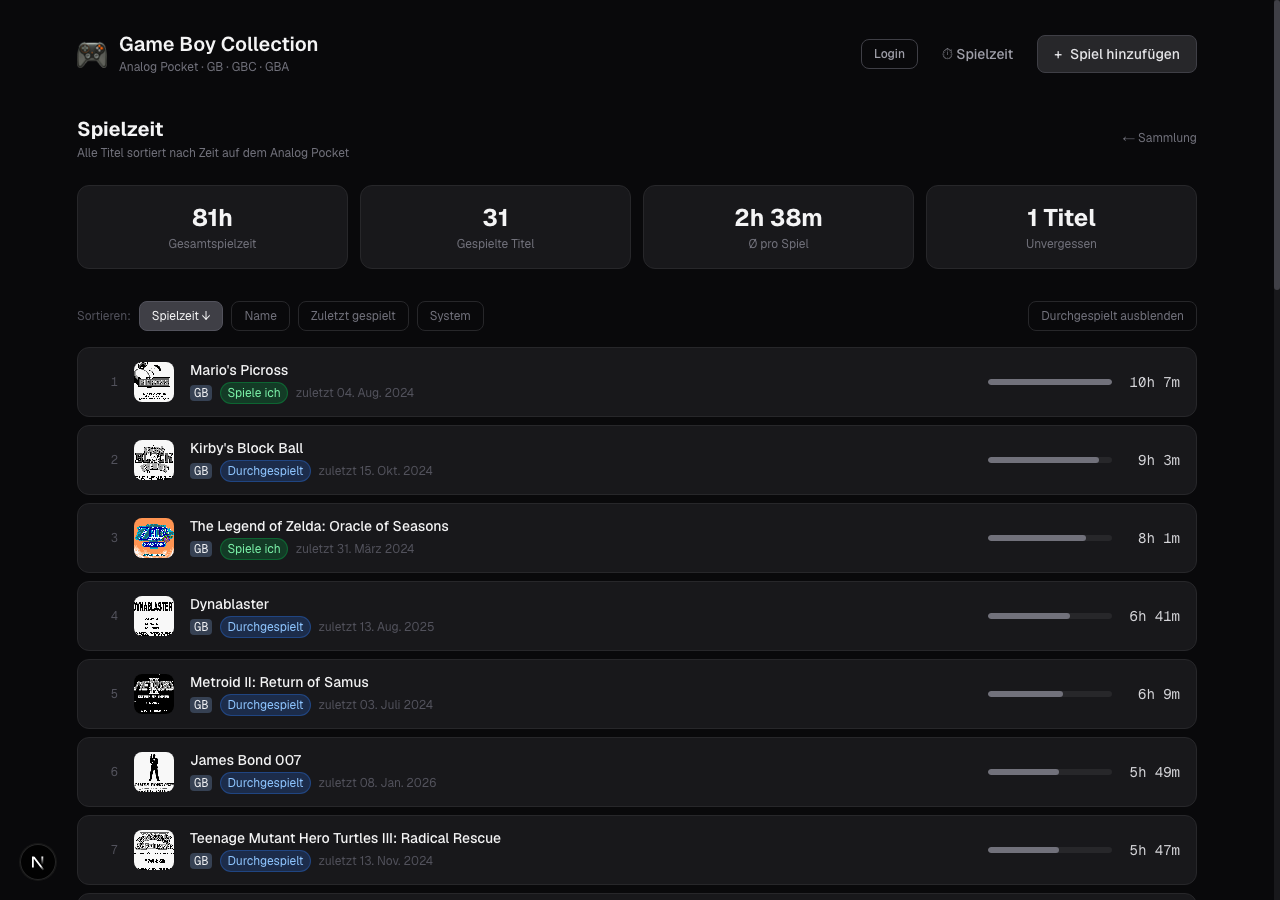
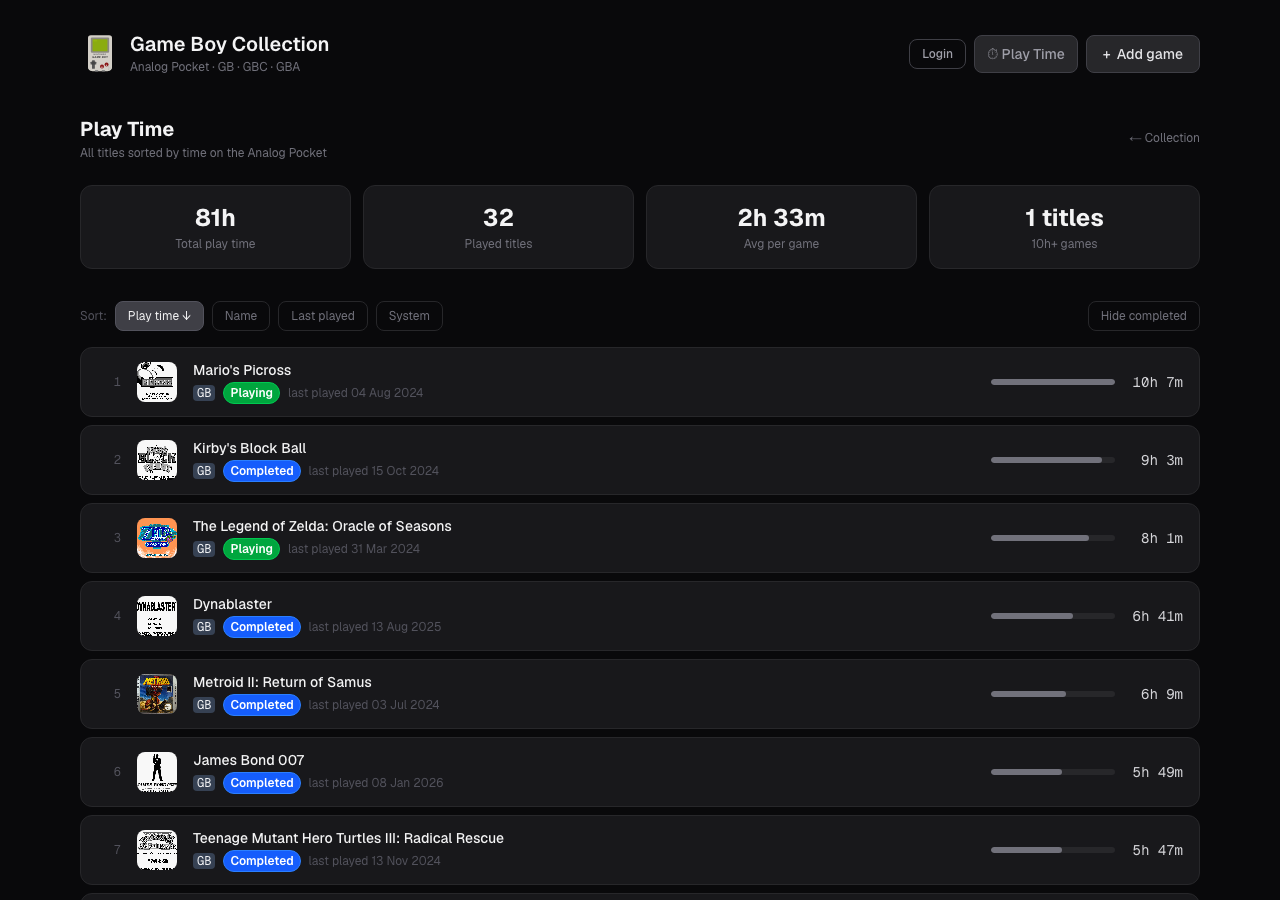
fix: several UI and filter improvements
- Fix "Owned" filter to include Playing and Completed games (all physically owned statuses)
- Fix Pocket Sync upload using hardcoded path instead of POCKET_PLAYED_DIR/POCKET_LIBRARY_DIR env vars
- Fix iOS auto-zoom on input focus (viewport maximum-scale=1)
- Unify header button heights — Login/Logout now matches Play Time, Pocket Sync and Add game
- Deduplicate Play Time / Pocket Sync button styles via shared constant
- Add clear (×) button to search field
- Translate remaining German strings in Pocket Sync UI to English
- Show build SHA and timestamp in footer when built via CI
- Update README screenshots and feature list

diff --git a/app/pocket-sync/page.tsx b/app/pocket-sync/page.tsx
@@ -33,7 +33,7 @@ export default function PocketSyncPage() {
       setOutput(data.output ?? "");
     } else {
       setStatus("error");
-      setError(data.error ?? "Unbekannter Fehler");
+      setError(data.error ?? "Unknown error");
       setOutput(data.output ?? "");
     }
   }
@@ -48,13 +48,13 @@ export default function PocketSyncPage() {
 
       <h2 className="text-xl font-bold text-zinc-100 mb-1">Pocket Sync</h2>
       <p className="text-xs text-zinc-500 mb-6">
-        Lädt Spielzeiten und Spiele von der Analogue Pocket SD-Karte.
+        Import play times and games from your Analogue Pocket SD card.
       </p>
 
       {/* Hint box */}
       <div className="bg-zinc-900 border border-zinc-700 rounded-xl p-4 mb-6 text-sm text-zinc-400">
-        <p className="font-medium text-zinc-300 mb-2">Wo finde ich die Dateien?</p>
-        <p className="mb-1">Auf der SD-Karte der Analogue Pocket unter:</p>
+        <p className="font-medium text-zinc-300 mb-2">Where to find the files?</p>
+        <p className="mb-1">On your Analogue Pocket SD card under:</p>
         <code className="block bg-zinc-800 rounded-lg px-3 py-2 text-xs text-zinc-300 font-mono mt-2">
           System/Played Games/list.bin<br />
           System/Played Games/playtimes.bin
@@ -85,8 +85,8 @@ export default function PocketSyncPage() {
             </>
           ) : (
             <>
-              <p className="text-zinc-400 text-sm">list.bin auswählen</p>
-              <p className="text-xs text-zinc-600 mt-1">Klicken zum Durchsuchen</p>
+              <p className="text-zinc-400 text-sm">Select list.bin</p>
+              <p className="text-xs text-zinc-600 mt-1">Click to browse</p>
             </>
           )}
         </div>
@@ -114,8 +114,8 @@ export default function PocketSyncPage() {
             </>
           ) : (
             <>
-              <p className="text-zinc-400 text-sm">playtimes.bin auswählen</p>
-              <p className="text-xs text-zinc-600 mt-1">Klicken zum Durchsuchen</p>
+              <p className="text-zinc-400 text-sm">Select playtimes.bin</p>
+              <p className="text-xs text-zinc-600 mt-1">Click to browse</p>
             </>
           )}
         </div>
@@ -125,14 +125,14 @@ export default function PocketSyncPage() {
           disabled={!ready || status === "uploading"}
           className="w-full py-2.5 bg-zinc-700 hover:bg-zinc-600 disabled:opacity-40 disabled:cursor-not-allowed text-sm font-medium text-zinc-100 rounded-lg transition-colors"
         >
-          {status === "uploading" ? "Wird importiert…" : "Importieren"}
+          {status === "uploading" ? "Importing…" : "Import"}
         </button>
       </form>
 
       {/* Result */}
       {status === "done" && (
         <div className="mt-6 bg-green-950/30 border border-green-800 rounded-xl p-4">
-          <p className="text-green-400 text-sm font-medium mb-3">Import abgeschlossen</p>
+          <p className="text-green-400 text-sm font-medium mb-3">Import complete</p>
           {output && (
             <pre className="text-xs text-zinc-400 whitespace-pre-wrap font-mono overflow-x-auto">
               {output}
@@ -142,14 +142,14 @@ export default function PocketSyncPage() {
             onClick={() => router.push("/")}
             className="mt-4 px-4 py-2 bg-zinc-700 hover:bg-zinc-600 text-sm text-zinc-100 rounded-lg transition-colors"
           >
-            Zur Übersicht
+            Back to collection
           </button>
         </div>
       )}
 
       {status === "error" && (
         <div className="mt-6 bg-red-950/30 border border-red-800 rounded-xl p-4">
-          <p className="text-red-400 text-sm font-medium mb-1">Fehler beim Import</p>
+          <p className="text-red-400 text-sm font-medium mb-1">Import failed</p>
           <p className="text-xs text-zinc-400 mb-3">{error}</p>
           {output && (
             <pre className="text-xs text-zinc-500 whitespace-pre-wrap font-mono overflow-x-auto">

diff --git a/app/layout.tsx b/app/layout.tsx
@@ -11,6 +11,11 @@ const geistMono = Geist_Mono({ variable: "--font-geist-mono", subsets: ["latin"]
 export const metadata: Metadata = {
   title: "Game Boy Collection",
   description: "My Game Boy cartridge collection",
+  viewport: {
+    width: "device-width",
+    initialScale: 1,
+    maximumScale: 1,
+  },
 };
 
 export default function RootLayout({ children }: { children: React.ReactNode }) {
@@ -41,6 +46,15 @@ export default function RootLayout({ children }: { children: React.ReactNode }) 
             </div>
           </header>
           <main>{children}</main>
+          {(process.env.NEXT_PUBLIC_BUILD_SHA || process.env.NEXT_PUBLIC_BUILD_TIME) && (
+            <footer className="mt-12 pb-4 text-center">
+              <span className="text-[11px] text-zinc-800 font-mono">
+                {process.env.NEXT_PUBLIC_BUILD_SHA && <>#{process.env.NEXT_PUBLIC_BUILD_SHA}</>}
+                {process.env.NEXT_PUBLIC_BUILD_SHA && process.env.NEXT_PUBLIC_BUILD_TIME && <> · </>}
+                {process.env.NEXT_PUBLIC_BUILD_TIME && <>{process.env.NEXT_PUBLIC_BUILD_TIME.replace("T", " ").replace("Z", " UTC")}</>}
+              </span>
+            </footer>
+          )}
         </div>
       </body>
     </html>

diff --git a/app/components/HeaderNav.tsx b/app/components/HeaderNav.tsx
@@ -2,6 +2,8 @@
 
 import { useState, useEffect } from "react";
 
+const btnCls = "px-2.5 sm:px-4 py-2 rounded-lg text-sm font-medium text-zinc-400 hover:text-zinc-200 transition-colors border border-zinc-700 bg-zinc-800 hover:bg-zinc-700";
+
 export default function HeaderNav() {
   const [authenticated, setAuthenticated] = useState(false);
 
@@ -11,19 +13,12 @@ export default function HeaderNav() {
 
   return (
     <>
-      <a
-        href="/playtime"
-        className="px-3 py-2 rounded-lg text-sm font-medium text-zinc-400 hover:text-zinc-200 transition-colors border border-zinc-700 bg-zinc-800 hover:bg-zinc-700"
-      >
+      <a href="/playtime" className={btnCls}>
         <span className="sm:hidden">⏱</span>
         <span className="hidden sm:inline">⏱ Play Time</span>
       </a>
       {authenticated && (
-        <a
-          href="/pocket-sync"
-          className="px-3 py-2 rounded-lg text-sm font-medium text-zinc-400 hover:text-zinc-200 transition-colors border border-zinc-700 bg-zinc-800 hover:bg-zinc-700"
-          title="Pocket Sync"
-        >
+        <a href="/pocket-sync" className={btnCls}>
           <span className="sm:hidden">🔄</span>
           <span className="hidden sm:inline">🔄 Pocket Sync</span>
         </a>

diff --git a/app/page.tsx b/app/page.tsx
@@ -189,8 +189,19 @@ function HomePage() {
               placeholder="Search game, publisher or genre…"
               value={query}
               onChange={(e) => setQuery(e.target.value)}
-              className="w-full pl-9 pr-4 py-2.5 bg-zinc-900 border border-zinc-800 rounded-lg text-sm text-zinc-100 placeholder-zinc-600 focus:outline-none focus:border-zinc-600 focus:bg-zinc-800/60 transition-colors"
+              className="w-full pl-9 pr-8 py-2.5 bg-zinc-900 border border-zinc-800 rounded-lg text-sm text-zinc-100 placeholder-zinc-600 focus:outline-none focus:border-zinc-600 focus:bg-zinc-800/60 transition-colors"
             />
+            {query && (
+              <button
+                onClick={() => setQuery("")}
+                className="absolute right-2.5 top-1/2 -translate-y-1/2 text-zinc-500 hover:text-zinc-300 transition-colors"
+                aria-label="Clear search"
+              >
+                <svg xmlns="http://www.w3.org/2000/svg" viewBox="0 0 16 16" fill="currentColor" className="w-4 h-4">
+                  <path d="M5.28 4.22a.75.75 0 0 0-1.06 1.06L6.94 8l-2.72 2.72a.75.75 0 1 0 1.06 1.06L8 9.06l2.72 2.72a.75.75 0 1 0 1.06-1.06L9.06 8l2.72-2.72a.75.75 0 0 0-1.06-1.06L8 6.94 5.28 4.22Z" />
+                </svg>
+              </button>
+            )}
           </div>
           {/* Filter toggle — mobile only */}
           <button

diff --git a/app/api/games/route.ts b/app/api/games/route.ts
@@ -1,6 +1,7 @@
 import { NextRequest, NextResponse } from "next/server";
 import { readGames, createGame } from "@/lib/db";
 import type { Game, GameStatus } from "@/lib/games";
+import { impliesOwnership } from "@/lib/games";
 
 export async function GET(req: NextRequest) {
   const { searchParams } = new URL(req.url);
@@ -20,7 +21,8 @@ export async function GET(req: NextRequest) {
         g.genre.some((gen) => gen.toLowerCase().includes(q))
     );
   }
-  if (status) games = games.filter((g) => g.status === (status as GameStatus));
+  if (status === "backlog") games = games.filter((g) => impliesOwnership(g.status));
+  else if (status) games = games.filter((g) => g.status === (status as GameStatus));
   if (platform) games = games.filter((g) => g.platform === platform);
   if (lent === "1") games = games.filter((g) => g.lent);
 

diff --git a/app/api/pocket-sync/route.ts b/app/api/pocket-sync/route.ts
@@ -17,11 +17,11 @@ export async function POST(req: NextRequest) {
   const playtimesBin = formData.get("playtimes") as File | null;
 
   if (!listBin || !playtimesBin) {
-    return NextResponse.json({ error: "Beide Dateien (list.bin und playtimes.bin) werden benötigt." }, { status: 400 });
+    return NextResponse.json({ error: "Both files (list.bin and playtimes.bin) are required." }, { status: 400 });
   }
 
   if (!listBin.name.endsWith(".bin") || !playtimesBin.name.endsWith(".bin")) {
-    return NextResponse.json({ error: "Nur .bin-Dateien erlaubt." }, { status: 400 });
+    return NextResponse.json({ error: "Only .bin files are allowed." }, { status: 400 });
   }
 
   const playedDir = process.env.POCKET_PLAYED_DIR ?? path.join(process.cwd(), "pocket-played");

diff --git a/app/components/AuthButton.tsx b/app/components/AuthButton.tsx
@@ -43,14 +43,14 @@ export default function AuthButton() {
       {authenticated ? (
         <button
           onClick={logout}
-          className="px-3 py-1.5 rounded-lg text-xs font-medium text-zinc-400 hover:text-zinc-200 border border-zinc-700 hover:border-zinc-500 transition-colors"
+          className="px-2.5 sm:px-4 py-2 rounded-lg text-sm font-medium text-zinc-400 hover:text-zinc-200 border border-zinc-700 bg-zinc-800 hover:bg-zinc-700 transition-colors"
         >
           Logout
         </button>
       ) : (
         <button
           onClick={() => setShowModal(true)}
-          className="px-3 py-1.5 rounded-lg text-xs font-medium text-zinc-400 hover:text-zinc-200 border border-zinc-700 hover:border-zinc-500 transition-colors"
+          className="px-2.5 sm:px-4 py-2 rounded-lg text-sm font-medium text-zinc-400 hover:text-zinc-200 border border-zinc-700 bg-zinc-800 hover:bg-zinc-700 transition-colors"
         >
           Login
         </button>

diff --git a/README.md b/README.md
@@ -11,17 +11,17 @@ A self-hosted web app to manage your Game Boy cartridge collection — with dire
 ### Game Overview
 ![Game Overview](docs/screenshots/overview.png)
 
-The main view shows all games as cards with cover art (automatically pulled from the Analog Pocket library), status badge, star rating and play time. Clicking the stat tiles at the top filters the list instantly.
+The main view shows all games as cards with cover art (automatically pulled from the Analog Pocket library) or virtual cartridge renders. Status badge, star rating and play time are shown per card. The stat tiles at the top act as quick filters; full search and filter controls are below.
 
 ### Game Detail
 ![Game Detail](docs/screenshots/detail.png)
 
-The detail page shows play time, sessions, last played date and notes. When logged in, all fields can be edited, a custom cartridge photo can be uploaded and the "lent out" flag can be toggled.
+The detail page shows play time, session count, last played date and notes. A Cartridge / Cover toggle switches between the virtual cartridge view and the Pocket library cover image. When logged in, all fields can be edited, a cartridge photo can be uploaded and the "lent out" flag can be toggled.
 
 ### Play Time Ranking
 ![Play Time](docs/screenshots/playtime.png)
 
-A sortable leaderboard of all played titles with bar chart, total and average play time.
+A sortable leaderboard of all played titles with progress bar, total play time and average per game. Sort by play time, name, last played date or system.
 
 ---
 
@@ -31,14 +31,19 @@ A sortable leaderboard of all played titles with bar chart, total and average pl
   - Play times and sessions from `list.bin` / `playtimes.bin`
   - Cover art from the Library (GB · GBC · GBA)
   - Title matching via No-Intro database (~8,400 entries)
+  - Reset protection: if Pocket data is lower than stored, play times are added rather than overwritten
+- **Pocket Sync upload** — upload `list.bin` and `playtimes.bin` directly via the web UI (no SD card reader needed)
 - **Game management**
   - Status: Playing · Completed · Owned · Wishlist
   - Star rating (1–5)
-  - Notes, purchase price, lent-out flag
-  - Custom cartridge photo upload
+  - Notes with clickable URLs, purchase price, lent-out flag
+  - Custom cartridge photo upload (JPEG, HEIC supported; EXIF rotation applied automatically)
+  - Virtual cartridge render with label placed in the cartridge shell
+  - Cartridge / Cover toggle on the detail page when both images are available
 - **Filtering & search**
   - Full-text search (title, publisher, genre)
   - Filter by status, platform, minimum rating, lent-out
+  - Filter state persisted in the URL — navigating back restores the last search
   - Clickable stat tiles as quick filters
 - **Play time view** with ranking, sorting and "hide completed" toggle
 - **Password protection** — reading is always public, editing requires login